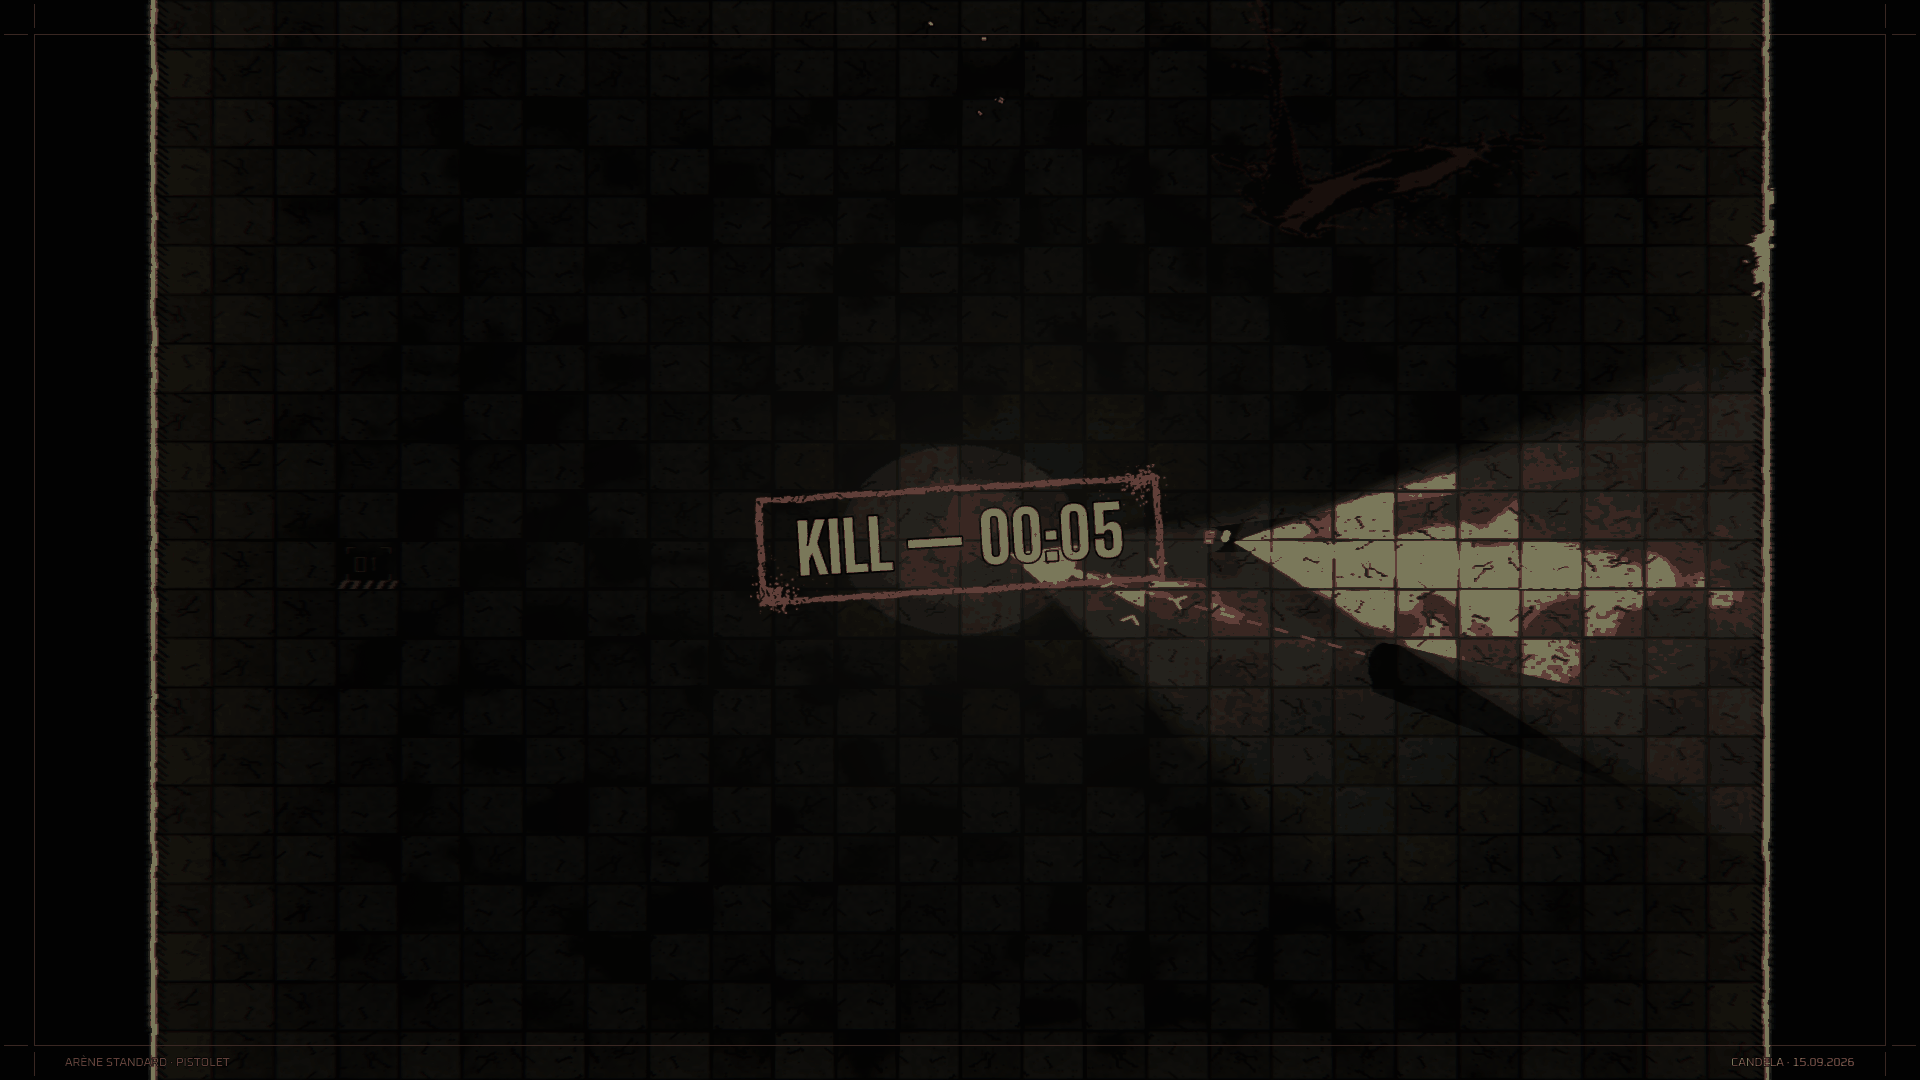
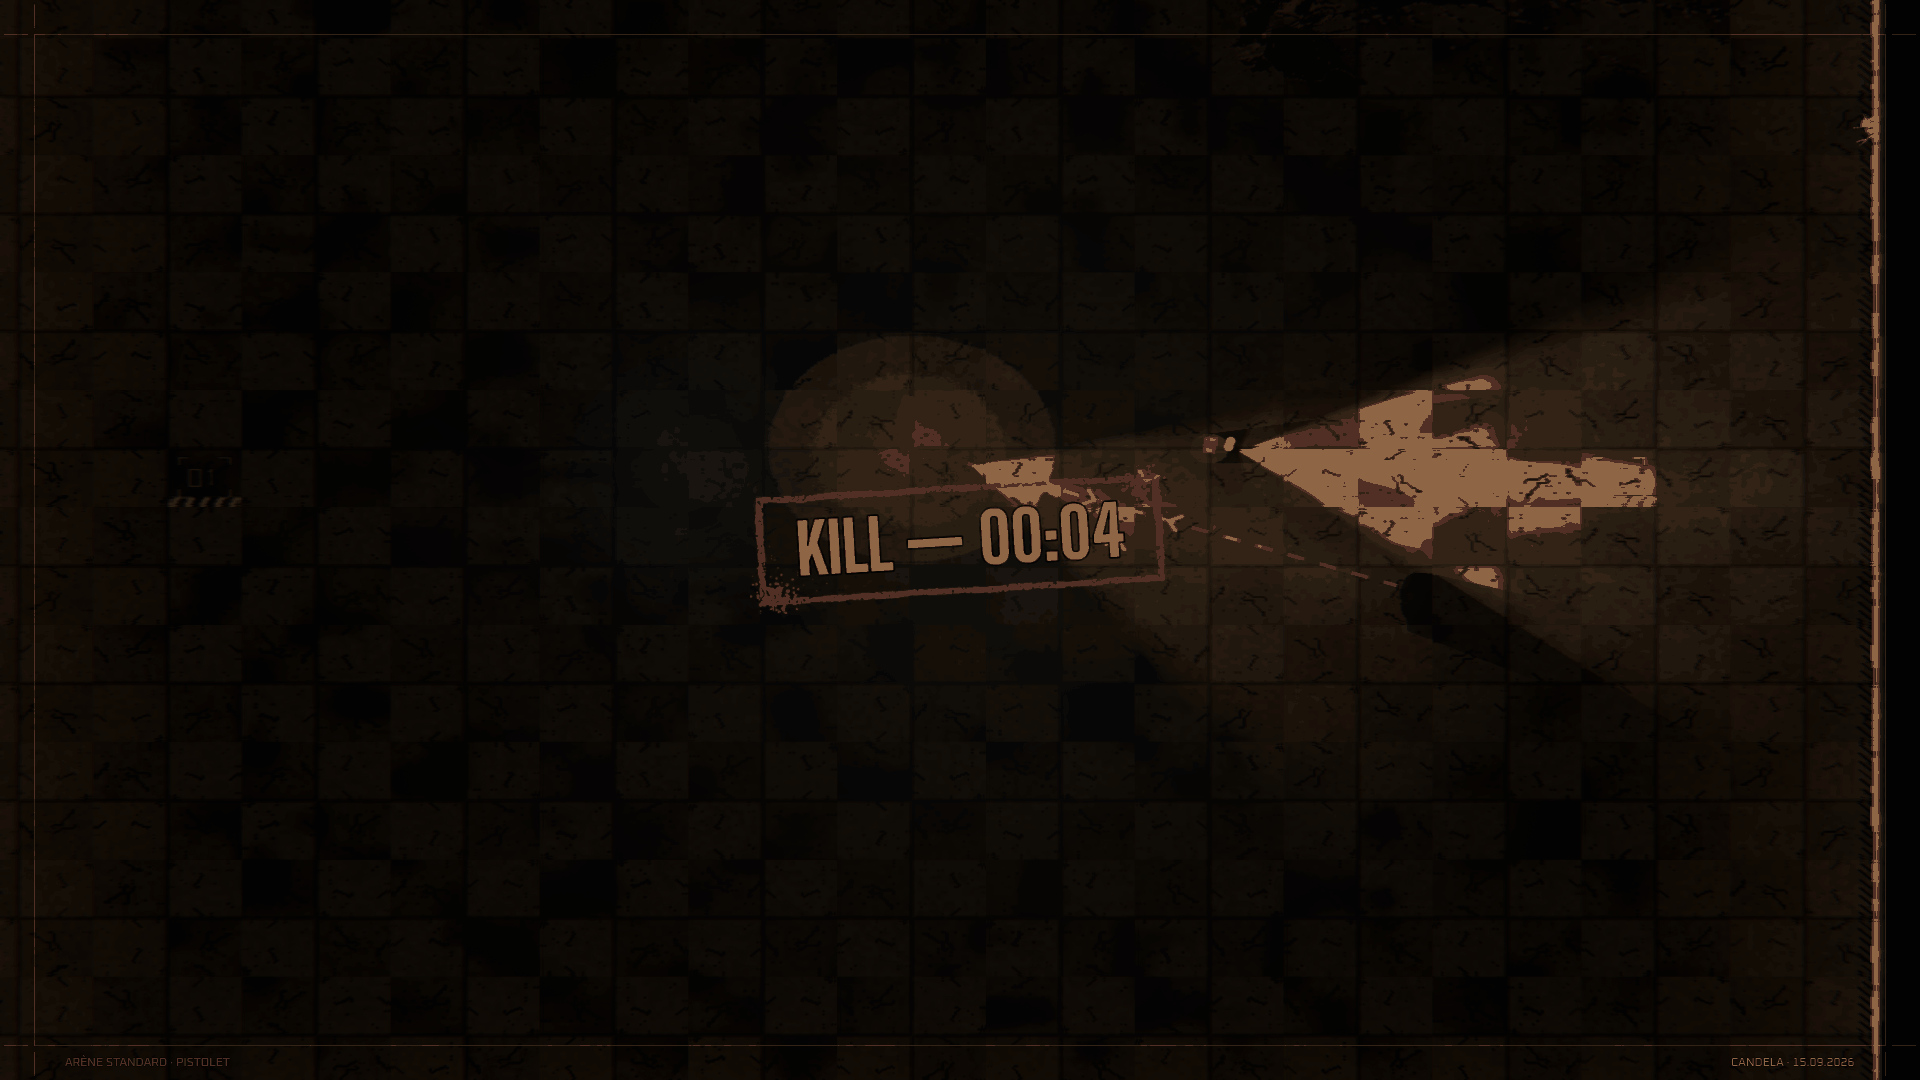
Planche finale refaite après les fusions d'ISO7b et d'ISO8, avec le Cloître : le photographe prend --carte-duel
Pas 4 de la séquence de fin de la session cloud (14:39). docs/iso/planche_finale.jpg
reprend les cases de 12:05 avec les faces d'ISO7b et la caméra ×1,8 d'ISO8, plus trois
cases au Cloître : le duel HUD compris, le volume d'un mur haut intérieur, la fusée.

- tools/photographe.gd : --carte-duel=<chemin> pose une autre carte pour les plans du
  duel. La mise en scène est celle de banc_claustro : mur haut intérieur, J1 face à sa
  face sud, J2 caché derrière. Sans mur intérieur, la scène d'ISO6 est inchangée. Le
  manifeste inscrit carte_duel.
- docs/iso/planche_finale.py : --photos-cloitre.
- settings_manager.gd : debogage/zoom_duel n'est plus lu par get_value(…, null), qui
  imprimait une ERREUR à chaque lancement d'un foyer neuf.

Sources :
- deux séances du photographe sans drapeau de rendu, 47 images chacune, mode_rendu=iso ;
- banc des gadgets VERDICT=OK, 0 échec.

Deux pièges consignés dans la ROADMAP :
- un foyer neuf joue l'intro par-dessus la séance ; remède : intro_vue=true posé d'avance ;
- au Cloître, J2 meurt pendant le plan « sang » et gâche les plans 13 à 17. La fusée du
  Cloître vient d'une reprise du plan seul ; la limite est signalée, non corrigée.

Lot complet vert : 127 OK en 414 s (15:32).

diff --git a/docs/iso/planche_finale.py b/docs/iso/planche_finale.py
@@ -1,10 +1,12 @@
 #!/usr/bin/env python3
 """Planche finale de la vague « grand budget » : le duel iso avec tout, tel qu'il se joue.
 
-Usage : python3 docs/iso/planche_finale.py --photos DIR --gadgets DIR
+Usage : python3 docs/iso/planche_finale.py --photos DIR --gadgets DIR [--photos-cloitre DIR]
 
 - --photos : le dossier de `./tools/run_photos.sh --famille=menus,jeu,fins --sortie=DIR`, lancé SANS
   drapeau (manifeste `mode_rendu` = `iso`, refusé sinon) ;
+- --photos-cloitre : le même, relancé avec `--carte-duel=res://assets/maps/map_001_le_cloitre.json` (les plans
+  du duel au Cloître, murs hauts intérieurs) ;
 - --gadgets : le dossier de `tools/banc_iso_gadgets.tscn -- --captures DIR`, pris APRÈS les quatre
   fusions (murs et sol texturés d'ISO7, encre des corps de la vague 5, volumes et lueurs de Gadgets).
 
@@ -30,6 +32,13 @@ PHOTOS = [
     ("jeu/06-hud.png", "Le duel, vue unique", "carte d'essai des murs bas · J1 face au mur haut, J2 derrière un muret · HUD"),
     ("jeu/10-volume.png", "Le volume du mur", "même scène, torche rasante le long du mur"),
     ("jeu/02-ecran-scinde.png", "L'écran scindé", "deux caméras iso, deux lightmaps, le halo propre à chaque vue"),
+]
+## Séquence de fin (session cloud, 14:39) : la planche finale se fait AUSSI sur Le Cloître, la carte livrée
+## aux murs hauts intérieurs — le photographe relancé avec `--carte-duel=res://assets/maps/map_001_le_cloitre.json`.
+PHOTOS_CLOITRE = [
+    ("jeu/06-hud.png", "Le duel au Cloître", "J1 face à un mur haut intérieur, J2 caché derrière · zoom ×1,8 · HUD"),
+    ("jeu/10-volume.png", "Le volume d'un mur du Cloître", "même scène, torche rasante le long de la face"),
+    ("jeu/17-fusee.png", "La fusée au Cloître", "sa lueur sur les faces des murs hauts"),
 ]
 GADGETS = [
     ("scene_fusee_vol.png", "La fusée en vol par-dessus un muret", "carte d'essai des murs bas · la lueur a une hauteur"),
@@ -58,6 +67,7 @@ def main():
     p = argparse.ArgumentParser()
     p.add_argument("--photos", required=True)
     p.add_argument("--gadgets", required=True)
+    p.add_argument("--photos-cloitre", default="")
     p.add_argument("--max-ko", type=int, default=450)
     p.add_argument("--max-planche-ko", type=int, default=1800)
     a = p.parse_args()
@@ -71,6 +81,19 @@ def main():
     cases = []
     for rel, titre, detail in PHOTOS:
         cases.append((copier(os.path.join(a.photos, rel), dest, a.max_ko), titre, detail, 1))
+    if a.photos_cloitre:
+        manifeste_c = json.load(open(os.path.join(a.photos_cloitre, "manifeste.json"), encoding="utf-8"))
+        if manifeste_c.get("mode_rendu") != "iso":
+            sys.exit("✗ manifeste du Cloître mode_rendu=%s" % manifeste_c.get("mode_rendu"))
+        for rel, titre, detail in PHOTOS_CLOITRE:
+            source = os.path.join(a.photos_cloitre, rel)
+            cible = os.path.join(dest, "cloitre_" + rel.replace("/", "_"))
+            if os.path.exists(source):
+                shutil.copyfile(source, cible)
+                compresser(cible, cible, a.max_ko * 1024)
+                cases.append((cible, titre, detail, 1))
+            else:
+                cases.append((None, titre, detail, 1))
     for nom, titre, detail in GADGETS:
         source = os.path.join(a.gadgets, nom)
         cases.append((copier(source, dest, a.max_ko) if os.path.exists(source) else None, titre, detail, 1))
@@ -79,7 +102,7 @@ def main():
     ref, titre, detail = REFERENCE
     cases.append((os.path.join(ICI, ref), titre, detail, 1))
     planche(cases, 3, "CANDELA — LE DUEL EN VUE ISOMÉTRIQUE, VAGUE « GRAND BUDGET »",
-            "iso2-vues @ %s · photographe sans drapeau (mode_rendu=iso) · banc des gadgets après les quatre fusions · 2026-09-15"
+            "iso2-vues @ %s · photographe sans drapeau (mode_rendu=iso), murs bas et Cloître · banc des gadgets après les fusions ISO7b et ISO8 · 2026-09-15"
             % manifeste.get("commit", "?"),
             os.path.join(ICI, "planche_finale.jpg"), a.max_planche_ko)
 

diff --git a/docs/ROADMAP.md b/docs/ROADMAP.md
@@ -24952,6 +24952,33 @@ montrer le hors-carte (demi-largeur visible 533 px, moins la tuile tolérée). S
 pas avancer vers la visée — c'est la borne, pas un défaut. Avant ISO8, la caméra est sur le joueur à quelques
 pixels près (le recul et la secousse de caméra). Les appels de dessin ne bougent pas au-delà du bruit.
 
+**La planche finale refaite après les fusions d'ISO7b et d'ISO8** (séquence de fin de la session cloud, pas 4,
+2026-09-15 vers 15:30). `docs/iso/planche_finale.jpg` recomposée sur `iso2-vues` : les cases de 12:05, reprises
+avec les faces d'ISO7b et la caméra ×1,8 d'ISO8, **plus trois cases au Cloître** — le duel HUD compris, le volume
+d'un mur haut intérieur, la fusée. Recomposable : `python3 docs/iso/planche_finale.py --photos <séance murs bas>
+--photos-cloitre <séance Cloître> --gadgets <banc des gadgets>`.
+- **Le photographe prend `--carte-duel=<chemin>`** : les plans du duel sur une autre carte que celle des murs
+  bas, pour montrer une carte livrée. Mise en scène reprise de `banc_claustro` (`_mise_en_scene_du_duel`) : le
+  mur haut intérieur le plus large, à trois tuiles des bords au moins ; J1 à 3,5 tuiles de sa face sud, celle
+  que la caméra voit ; J2 caché derrière ; en rasante, J1 à une tuile de la face. Sans mur intérieur, la scène
+  d'ISO6 est inchangée (bordure nord, muret). Au Cloître : le mur (315 ; 315) de 105 px, J1 en (367,5 ; 542,5),
+  J2 en (367,5 ; 273) — les positions du banc. Le manifeste inscrit `carte_duel`.
+- **Sources** : deux séances du photographe sans drapeau de rendu (manifeste `mode_rendu=iso`, 47 images
+  chacune, aucune prise perdue) ; `tools/banc_iso_gadgets.tscn` **VERDICT=OK, 0 échec** (appels de dessin de la
+  fusée posée : 134 images coupées, 144 rendues).
+- ⚠ **Piège de l'outil : un foyer neuf joue l'intro par-dessus la séance.** Lancé avec un `HOME` temporaire
+  vide, le photographe a photographié l'écran titre (« une touche pour passer ») puis le menu principal à la
+  place du duel, sans aucune erreur. Remède : poser d'avance un `settings.cfg` qui ne contient que
+  `[display] intro_vue=true`, tout le reste aux défauts du jeu.
+- ⚠ **Limite de `--carte-duel`, signalée et non corrigée.** Dans la séance complète au Cloître, J2 meurt
+  pendant le plan `sang` (`[REPLAY] P2 died`) : ce plan tire sur la carte de la séance, mais J1 y garde sa
+  position du Cloître, et `_vivants()`, qui remet 100 PV à chaque image, ne suffit pas là. Les plans 13 à 17
+  sortent alors dans l'état d'après la mort (voile sépia, vue plate). La case « fusée au Cloître » vient donc
+  d'une reprise du plan seul (`--plan=fusee --carte-duel=…`). La séance sans `--carte-duel` n'est pas touchée.
+- Au passage, `settings_manager.gd` ne lit plus `debogage/zoom_duel` par `get_value(…, null)` : pour Godot, un
+  défaut `null` veut dire « aucun défaut », et chaque lancement d'un foyer où le zoom n'a jamais été réglé
+  imprimait une ERREUR (introduite à l'étape 2 d'ISO8).
+
 ### Ce qui attend Adrien — jalon H15
 
 Go / no-go ; ou la voie « vitrines seulement » ; tangage (60-65°), lacet

diff --git a/docs/JOURNAL_SESSIONS.md b/docs/JOURNAL_SESSIONS.md
@@ -5568,3 +5568,13 @@ les fichiers d'ISO7b, de Gadgets et d'ISO6 que la branche ISO8 ne touchait pas (
 `photographe.gd`, `run_suites.sh`, `conditions_de_match.gd`) inchangés par la fusion. Premier lot où tournent ensemble
 les corps et les faces d'ISO7b et la caméra d'ISO8.
 Lot complet vert à 15:11 : 127 OK en 414 s — le premier où tournent ensemble les corps et faces d'ISO7b et la caméra d'ISO8 ; `test_arena_matter` n'a pas rougi.
+
+**La planche finale refaite, 2026-09-15 vers 15:30.** Session « Iso 1 Opus », pas 4 de la séquence de fin de la
+session cloud. `docs/iso/planche_finale.jpg` recomposée après les fusions 2 et 3, avec trois cases au Cloître
+(duel, volume, fusée). Le photographe prend `--carte-duel=<chemin>`, mise en scène du banc du Cloître. Deux
+séances de 47 images (`mode_rendu=iso`), banc des gadgets VERDICT=OK. Trois choses payées en route :
+- un foyer neuf joue l'intro par-dessus la séance ; remède : `intro_vue=true` posé d'avance ;
+- au Cloître, J2 meurt au plan `sang` et gâche les plans 13 à 17 ; la fusée est reprise seule, la limite est
+  signalée ;
+- l'ERREUR `debogage/zoom_duel` imprimée à chaque lancement d'un foyer neuf est corrigée.
+Lot complet vert à 15:32 : 127 OK en 414 s.
